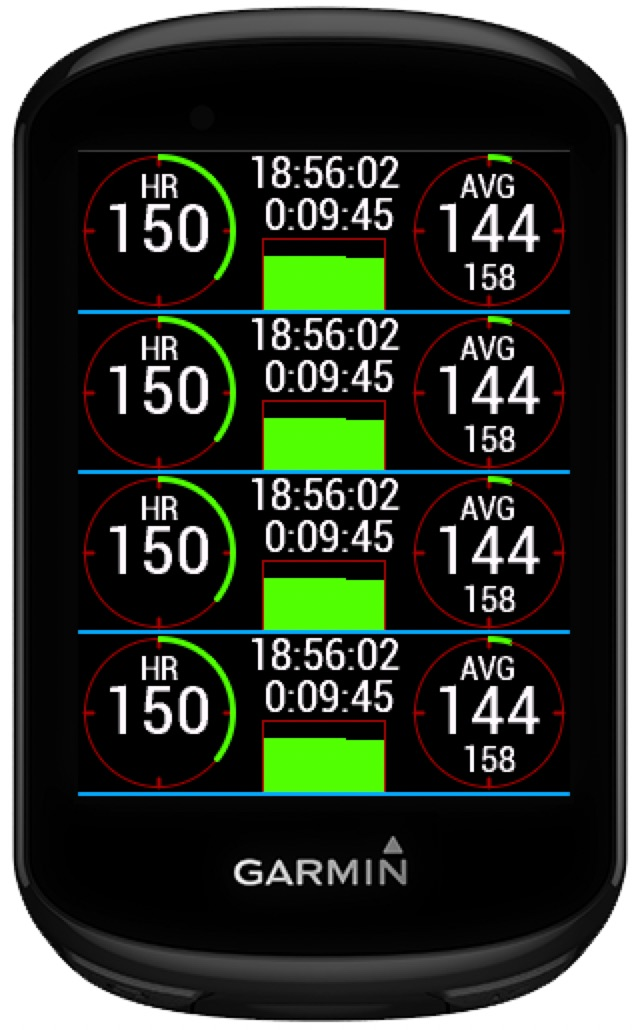
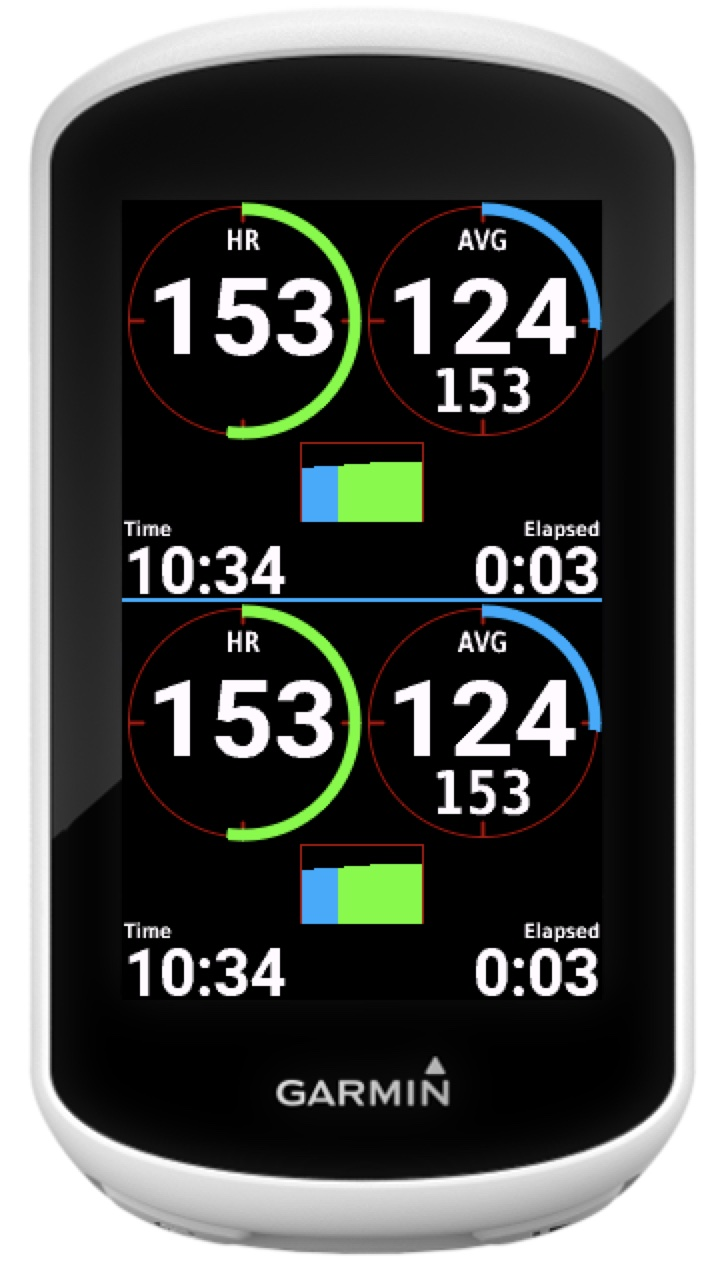
trhr 1.9.0

diff --git a/traininghr/home.html b/traininghr/home.html
@@ -184,7 +184,7 @@
                                 <div class="carousel-item">
                                     <img src="/traininghr/images/carousel/trhr4.jpg" class="" alt="" width="250">
                                     <div class="carousel-cap-garm d-none d-md-block">
-                                    <h6>4 Edge 830 - Circles Mode (Layout 4A)</h6>
+                                    <h6>4 Edge Explorer 2 - Circles Mode (Layout 2)</h6>
                                     </div>
                                 </div>
                                 <div class="carousel-item">
@@ -262,6 +262,10 @@
                 <div class="modal-links">
                     <p class="h2">Release History</p>
                     <p>&nbsp;</p>                    
+                    <p class="h5">v1.9.0:</p>
+                    <ul>
+                        <li>ADD:  Support for Edge Explorer 2 device.</li>
+                    </ul>    
                     <p class="h5">v1.8.3:</p>
                     <ul>
                         <li>ADD:  Support for Edge1040 devices.</li>
